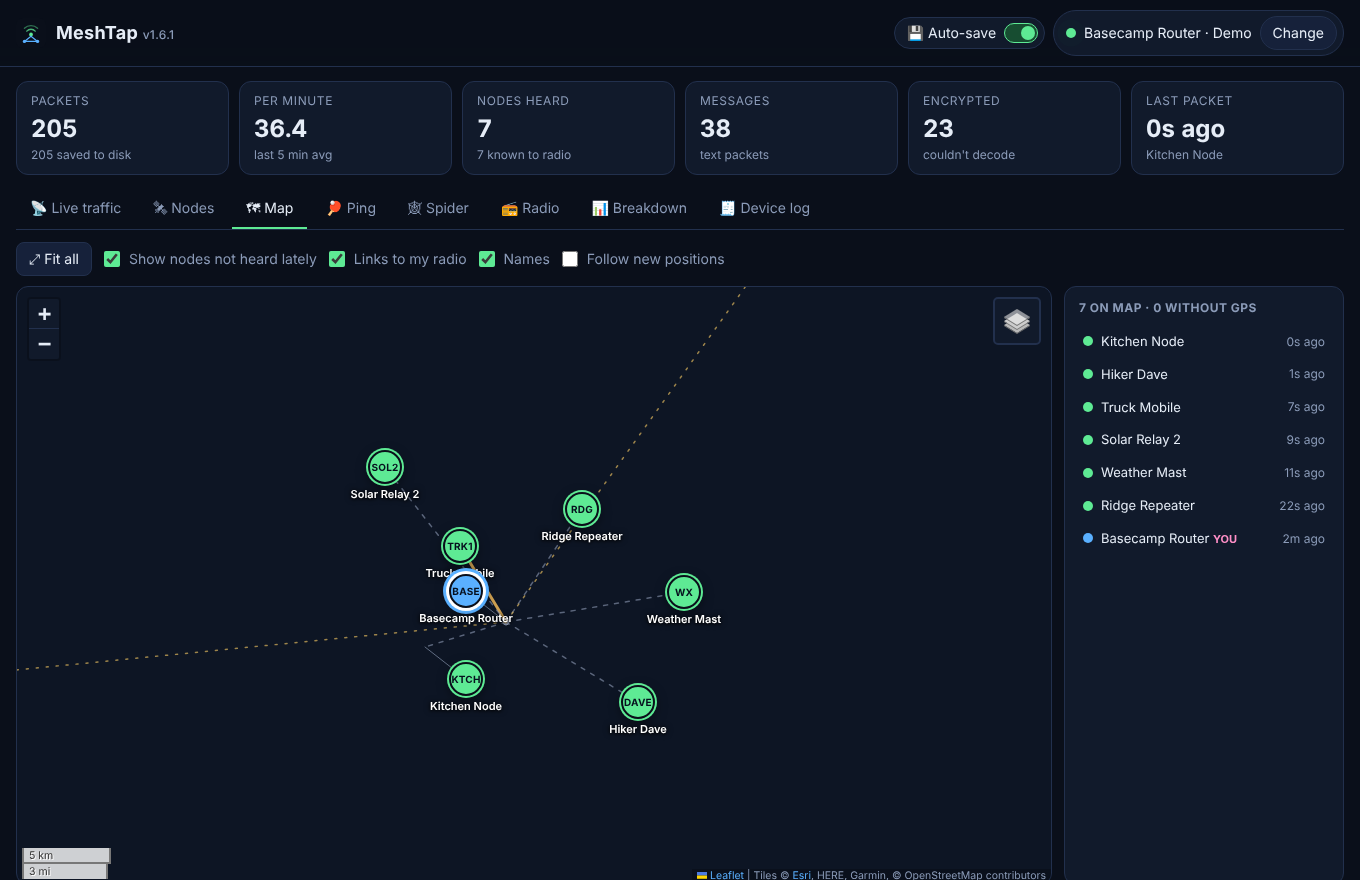
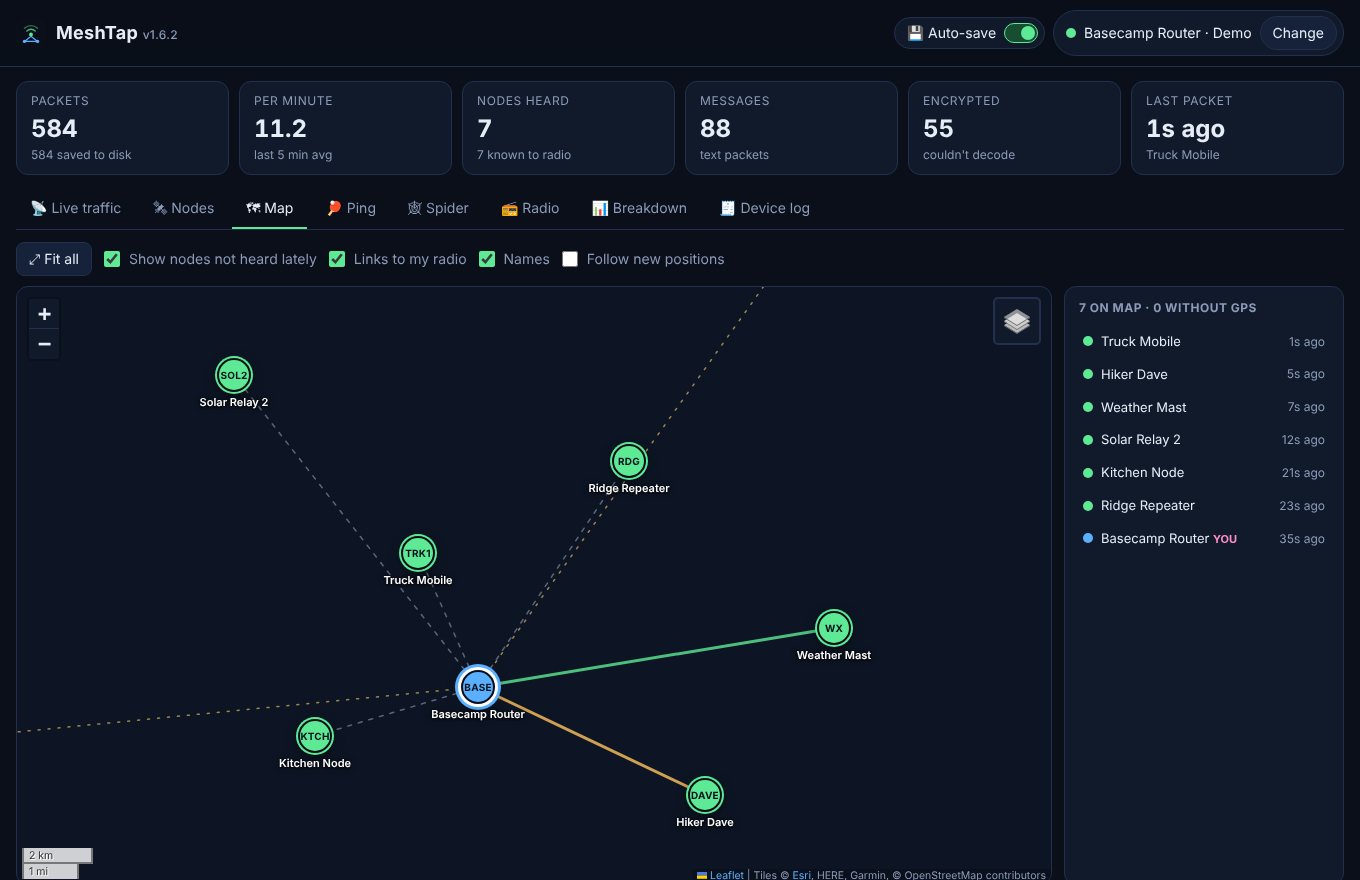
Refresh screenshots for 1.6.2
- New main image: Live traffic, Spider, Ping and Radio in one picture
- All tab screenshots retaken; added Radio name & info, WiFi setup and
  Connect → Find radios
- Pi menu tile picture updated

Claude-Session: https://claude.ai/code/session_013eymtVxTHQ6z8gR1U8tcLY

diff --git a/README.md b/README.md
@@ -26,9 +26,11 @@ MeshTap connects to your radio (USB, WiFi or Bluetooth), captures every packet i
 | **Live traffic** — every packet as it arrives<br>![Live traffic](docs/screenshots/live-traffic.png) | **Packet detail** — the full decoded packet<br>![Packet detail](docs/screenshots/packet-detail.png) |
 | **Nodes** — everyone heard, signal, battery, hops<br>![Nodes](docs/screenshots/nodes.png) | **Map** — nodes, links to your radio, your goals<br>![Map](docs/screenshots/map.png) |
 | **Ping** — round trips, success rate, Link check<br>![Ping](docs/screenshots/ping.png) | **Spider** — reach out to 7 hops, range and goals<br>![Spider](docs/screenshots/spider.png) |
-| **Radio → Settings** — every section, with hints<br>![Radio settings](docs/screenshots/radio-settings.png) | **Radio → Channels** — keys, uplink, channel link<br>![Radio channels](docs/screenshots/radio-channels.png) |
+| **Radio → Name & info** — rename, firmware, save current config<br>![Radio info](docs/screenshots/radio-info.png) | **Radio → Settings** — every section, with hints<br>![Radio settings](docs/screenshots/radio-settings.png) |
+| **Radio → Network** — one-step WiFi setup<br>![WiFi setup](docs/screenshots/radio-wifi.png) | **Radio → Channels** — keys, uplink, channel link<br>![Radio channels](docs/screenshots/radio-channels.png) |
 | **Radio → Clone & backup** — save, restore, clone, factory reset<br>![Clone and backup](docs/screenshots/radio-clone.png) | **Breakdown** — traffic over time, by type, by node<br>![Breakdown](docs/screenshots/breakdown.png) |
-| **Device log** — MeshTap events and radio debug lines<br>![Device log](docs/screenshots/device-log.png) | **Connect** — USB/serial, WiFi, Bluetooth, serial text, demo<br>![Connect](docs/screenshots/connect.png) |
+| **Connect** — USB/serial, WiFi, Bluetooth, serial text, demo<br>![Connect](docs/screenshots/connect.png) | **Connect → WiFi** — find radios on your network, click to connect<br>![Find radios](docs/screenshots/connect-wifi.png) |
+| **Device log** — MeshTap events and radio debug lines<br>![Device log](docs/screenshots/device-log.png) | |
 
 <p align="center"><b>On a phone</b> (run with <code>--lan</code>)<br><img src="docs/screenshots/phone.png" width="300" alt="MeshTap on a phone"></p>
 
